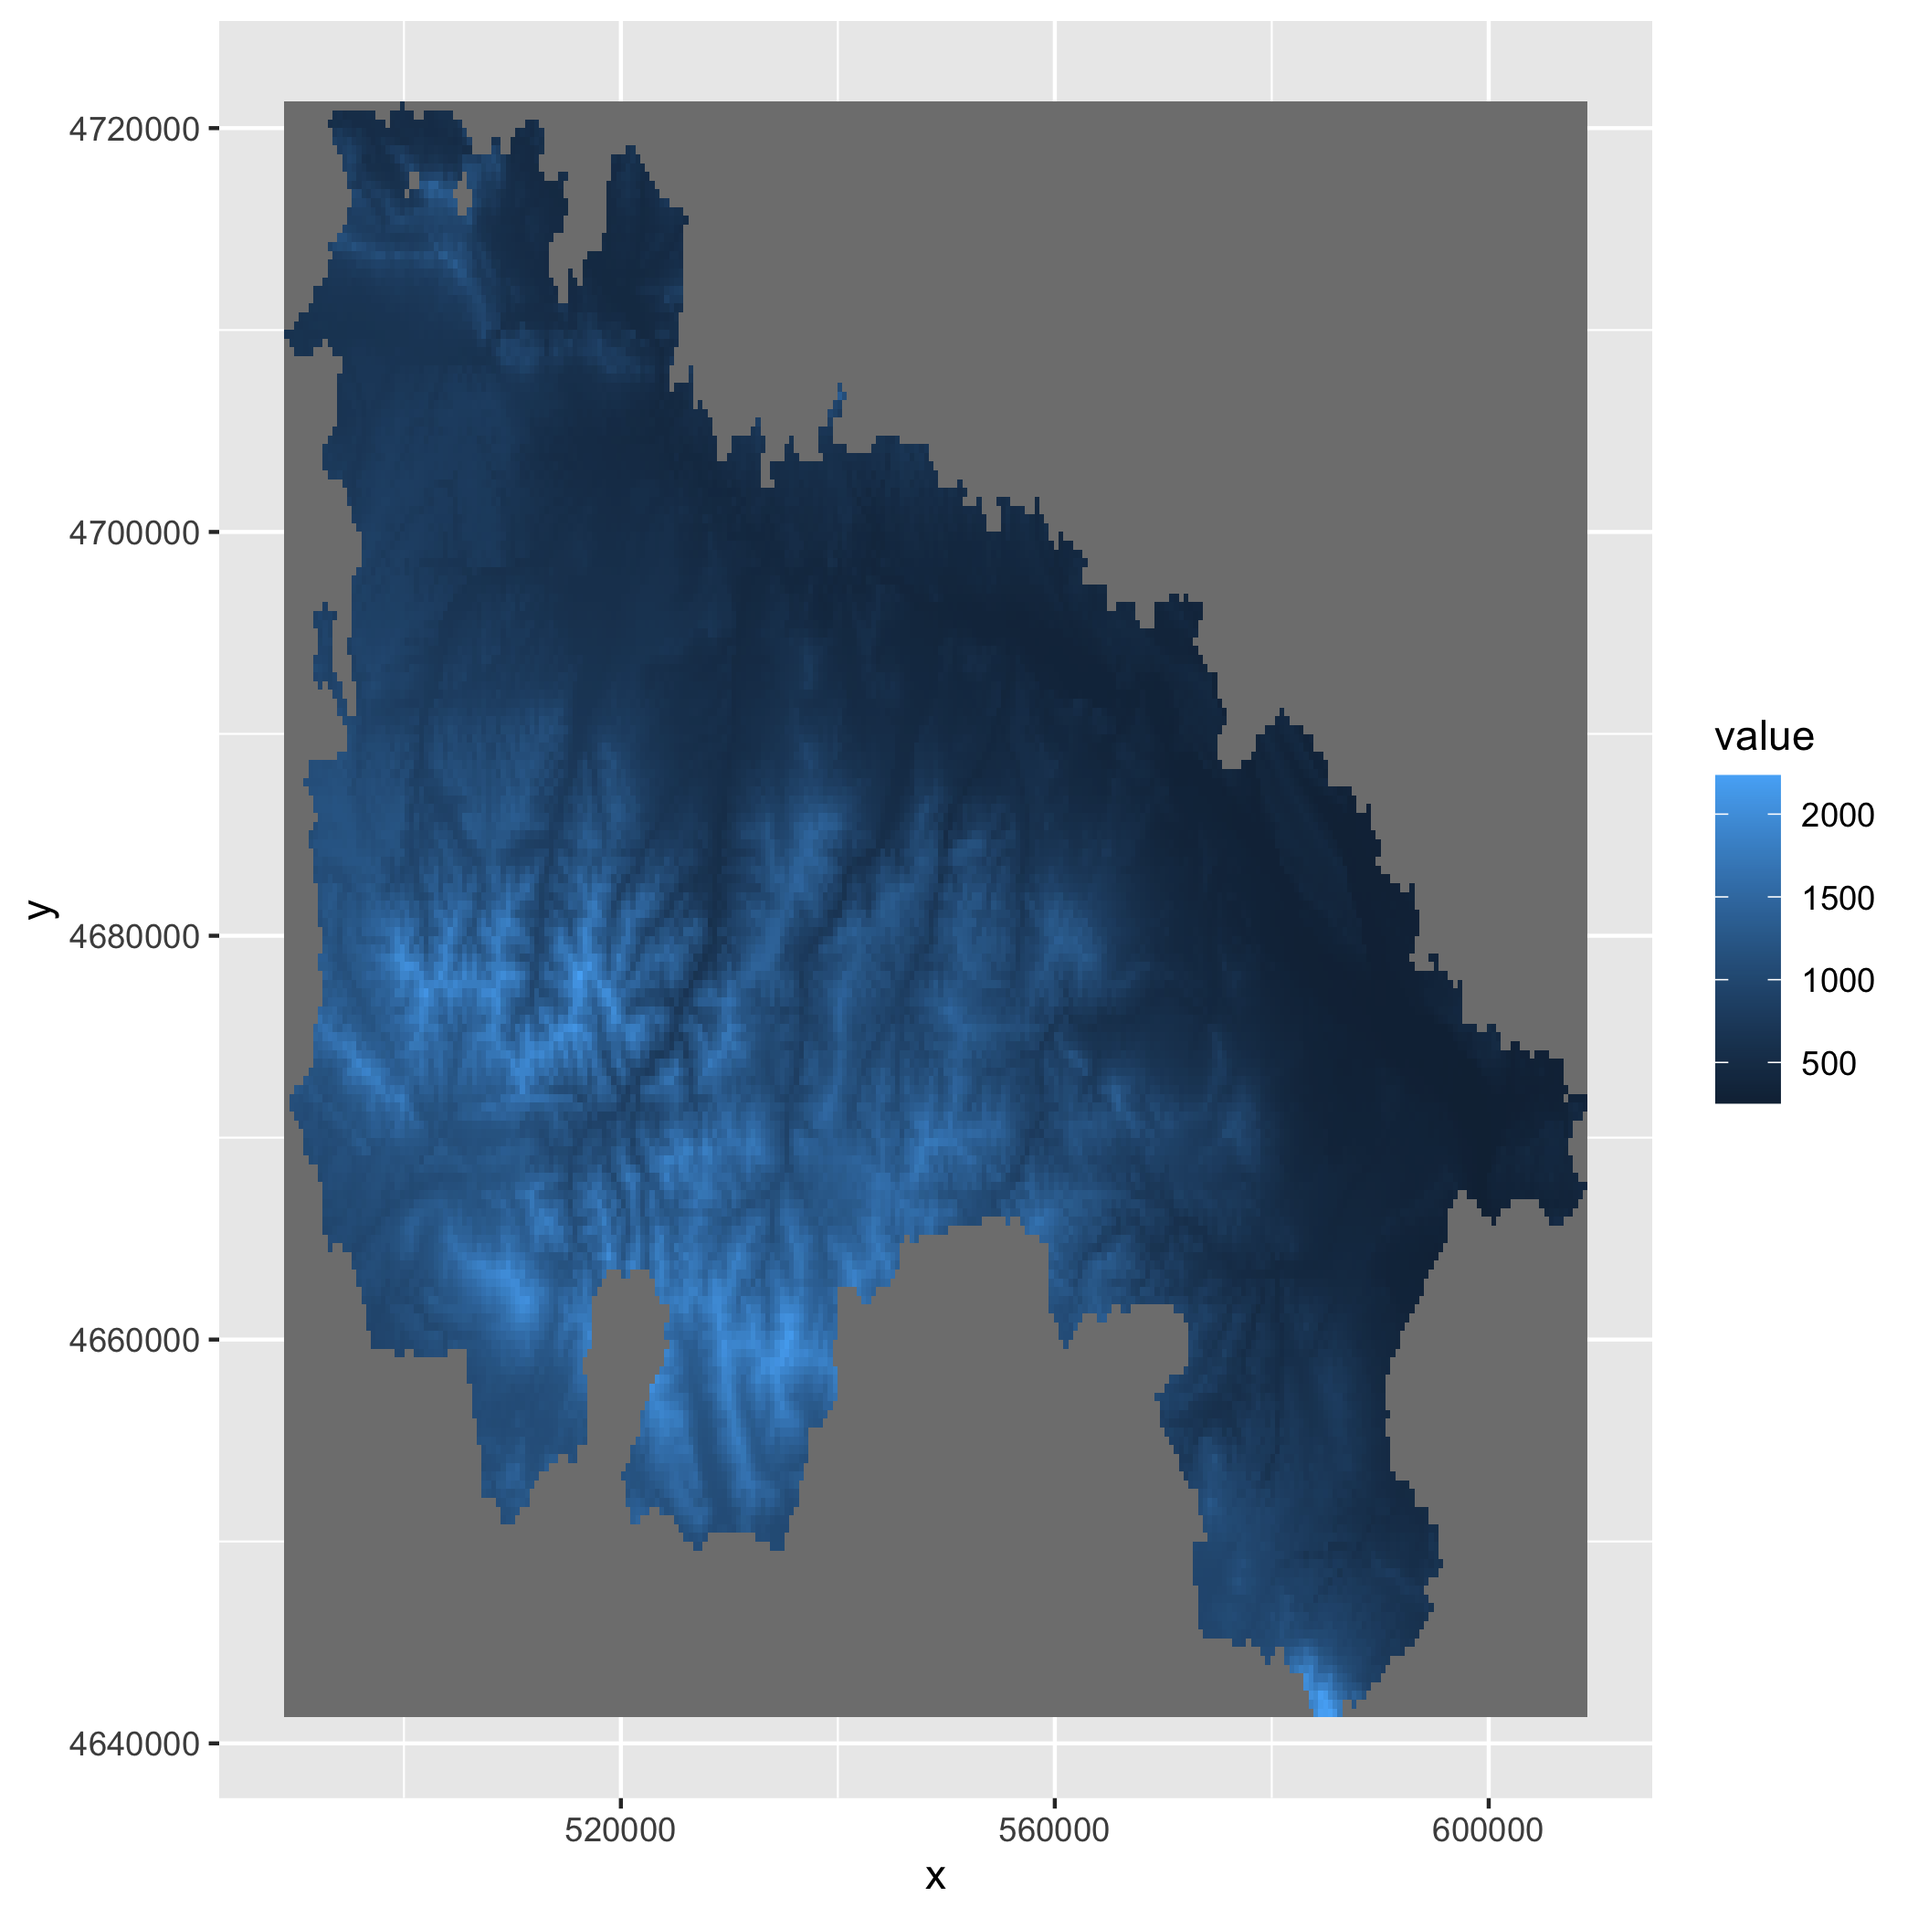
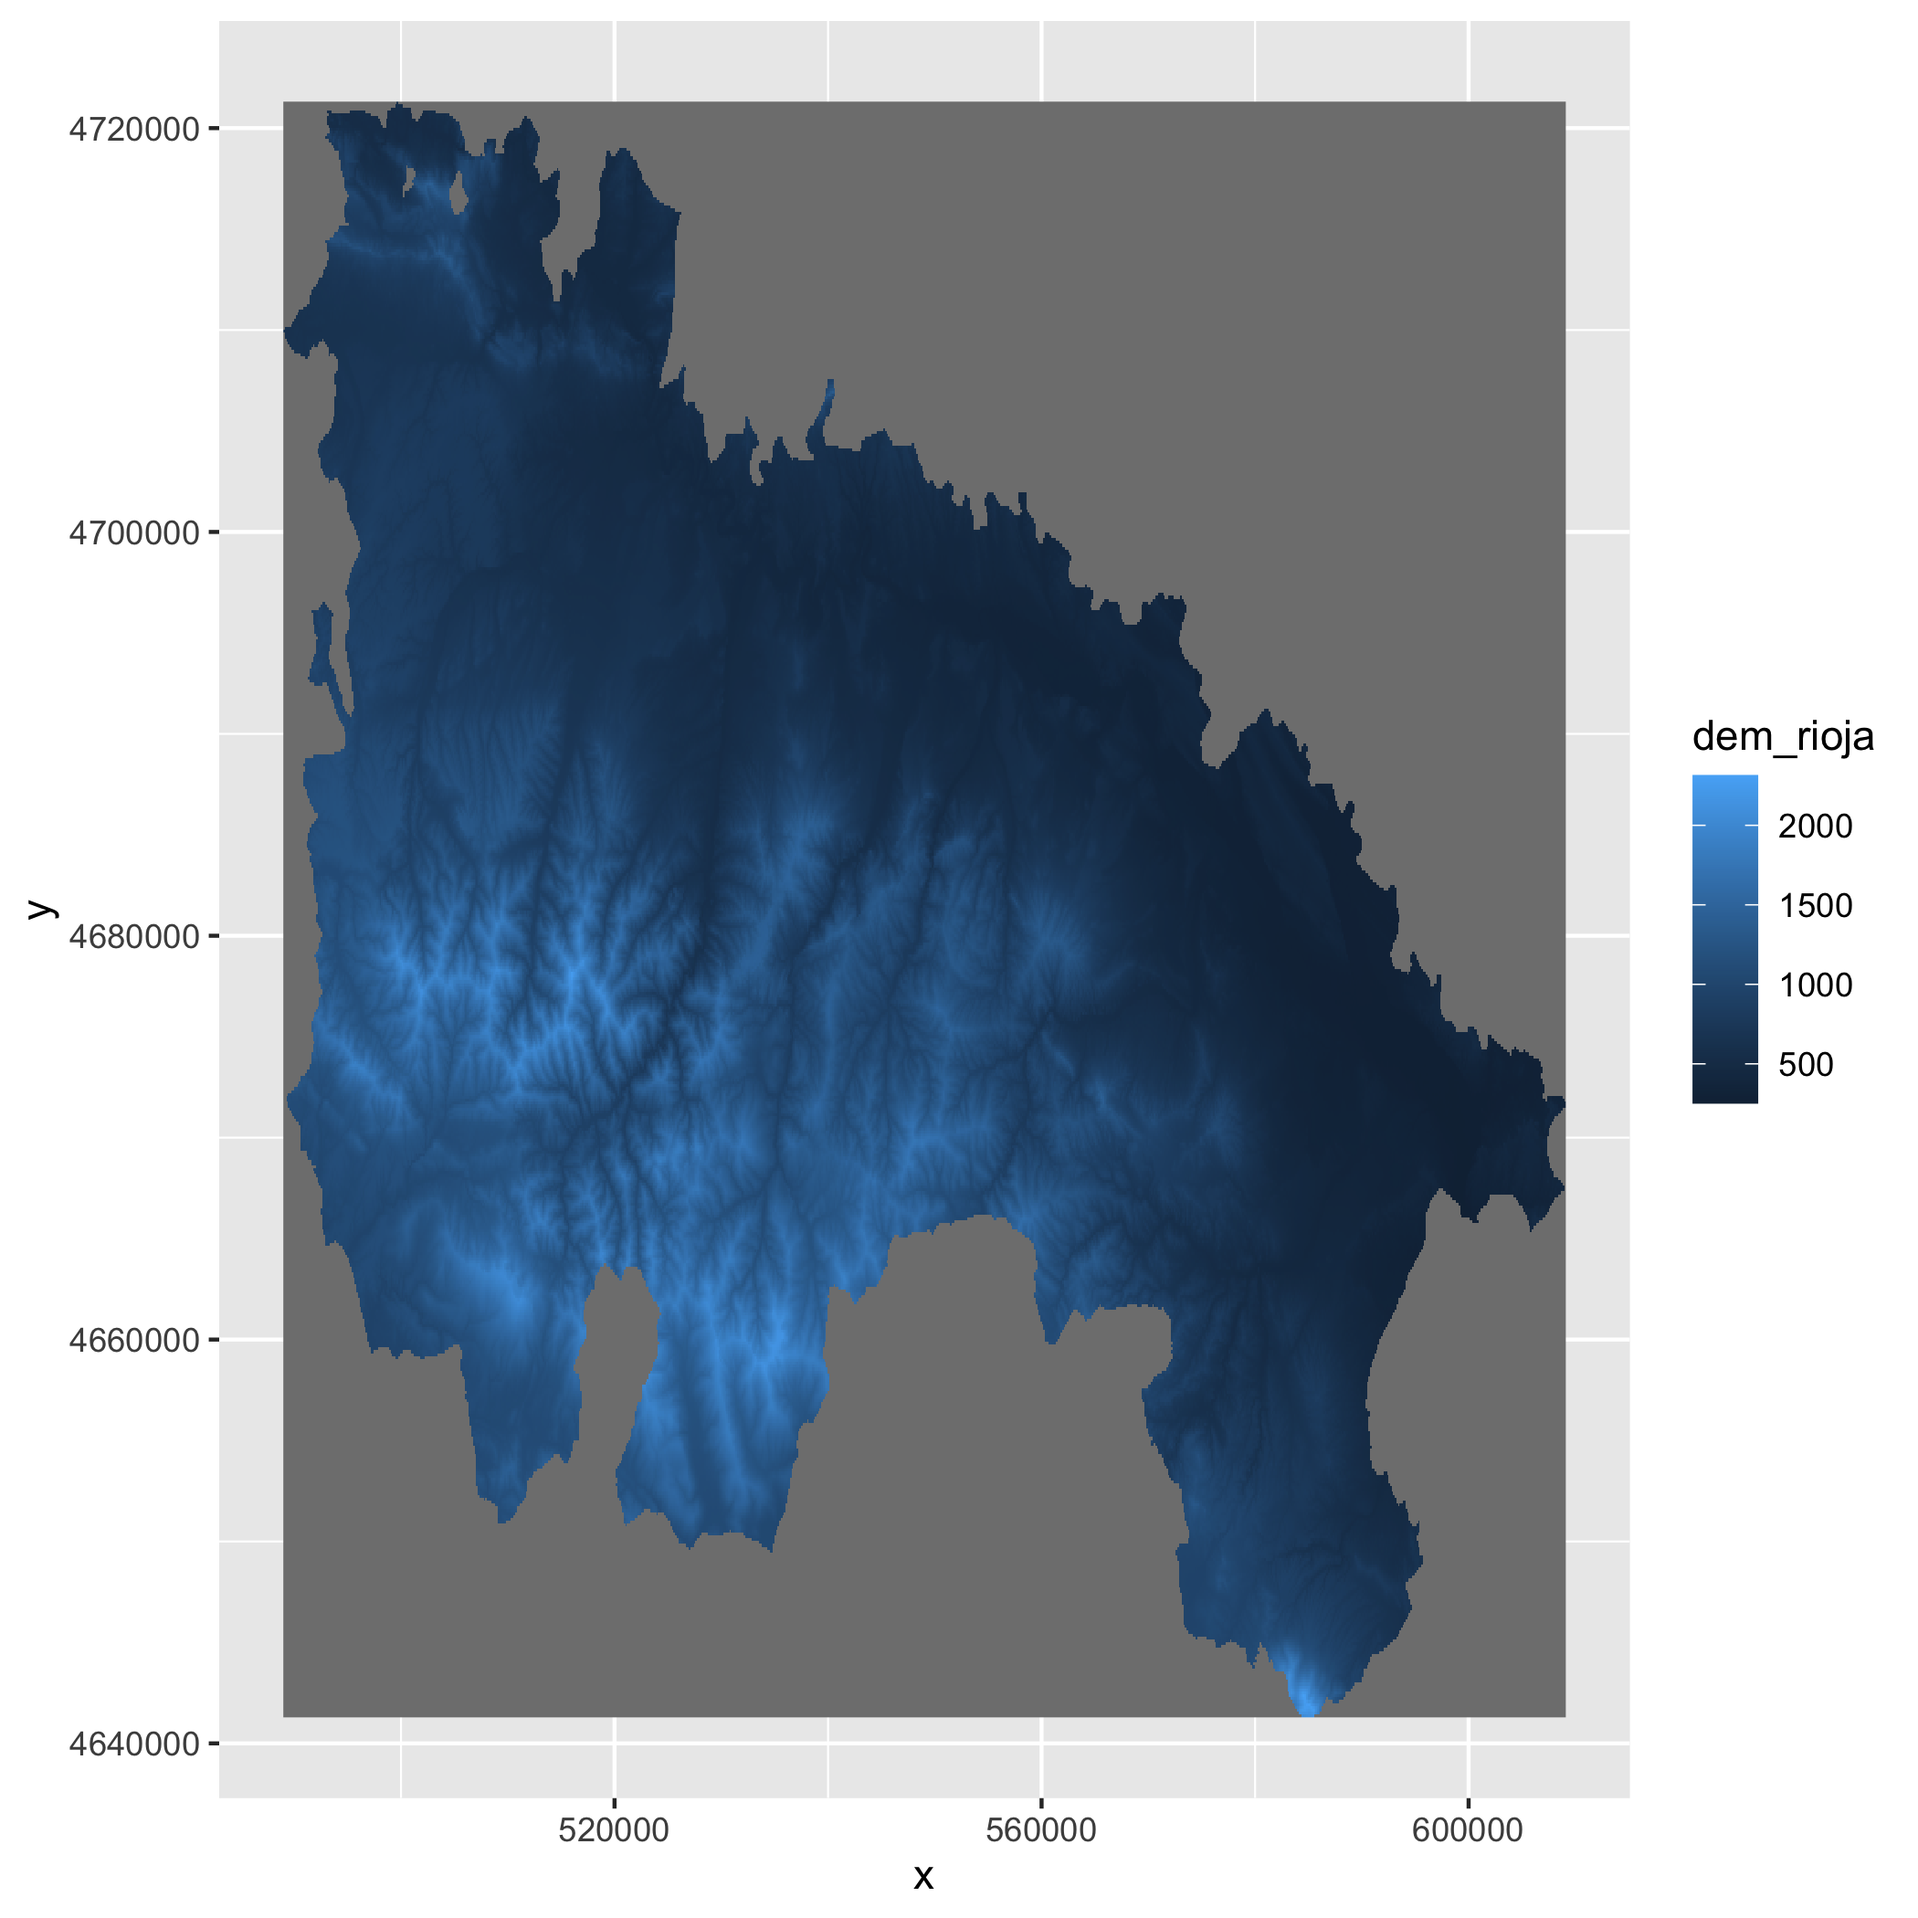
Updated slides maps

diff --git a/public/slides/lec-slides/15_spatial_data.html b/public/slides/lec-slides/15_spatial_data.html
@@ -63,8 +63,15 @@ grid %&gt;%
         geom_sf(aes(fill=log(BA)))
 ```
 
-![](15_spatial_data_files/figure-html/unnamed-chunk-3-1.png)&lt;!-- --&gt;
+---
 
+# Mapping vector data
+
+
+![](15_spatial_data_files/figure-html/unnamed-chunk-4-1.png)&lt;!-- --&gt;
+
+
+---
 # Reading raster layers
 
 The information in raster format is basically a 2-dimensional matrix, in which each of the grids or pixels is given a numerical value that represents either a category o parameter.
@@ -78,31 +85,13 @@ library(raster)
 dem &lt;- raster('data/dem_rioja.tif')
 ```
 
+---
+
 # Mapping raster layers
 
 
 ```r
 library(raster)
-```
-
-```
-## 
-## Attaching package: 'raster'
-```
-
-```
-## The following object is masked from 'package:dplyr':
-## 
-##     select
-```
-
-```
-## The following object is masked from 'package:tidyr':
-## 
-##     extract
-```
-
-```r
 dem &lt;- raster('data/dem_rioja.tif')
 
 raster::as.data.frame(dem, xy = TRUE) %&gt;%
@@ -110,38 +99,22 @@ raster::as.data.frame(dem, xy = TRUE) %&gt;%
         geom_raster(aes(x=x,y=y,fill=dem_rioja))
 ```
 
-![](15_spatial_data_files/figure-html/unnamed-chunk-5-1.png)&lt;!-- --&gt;
+---
+
+# Mapping raster layers
+
+![](15_spatial_data_files/figure-html/unnamed-chunk-7-1.png)&lt;!-- --&gt;
+
+---
 
 
 ```r
 library(rasterVis)
-```
-
-```
-## Loading required package: lattice
-```
-
-```
-## Loading required package: latticeExtra
-```
-
-```
-## 
-## Attaching package: 'latticeExtra'
-```
-
-```
-## The following object is masked from 'package:ggplot2':
-## 
-##     layer
-```
-
-```r
 gplot(dem) +
     geom_tile(aes(fill=value)) 
 ```
 
-![](15_spatial_data_files/figure-html/unnamed-chunk-6-1.png)&lt;!-- --&gt;
+---
 
 # Adding scale and norht arrows
 
@@ -157,16 +130,6 @@ gplot(dem) +
                          pad_y = unit(0.25, "in"),
                          style = north_arrow_fancy_orienteering)
 ```
-
-```
-## Using plotunit = 'm'
-```
-
-```
-## Warning in f(...): True north is not meaningful without coord_sf()
-```
-
-![](15_spatial_data_files/figure-html/unnamed-chunk-7-1.png)&lt;!-- --&gt;
     </textarea>
 <style data-target="print-only">@media screen {.remark-slide-container{display:block;}.remark-slide-scaler{box-shadow:none;}}</style>
 <script src="https://remarkjs.com/downloads/remark-latest.min.js"></script>

diff --git a/static/slides/lec-slides/15_spatial_data.html b/static/slides/lec-slides/15_spatial_data.html
@@ -63,8 +63,15 @@ grid %&gt;%
         geom_sf(aes(fill=log(BA)))
 ```
 
-![](15_spatial_data_files/figure-html/unnamed-chunk-3-1.png)&lt;!-- --&gt;
+---
 
+# Mapping vector data
+
+
+![](15_spatial_data_files/figure-html/unnamed-chunk-4-1.png)&lt;!-- --&gt;
+
+
+---
 # Reading raster layers
 
 The information in raster format is basically a 2-dimensional matrix, in which each of the grids or pixels is given a numerical value that represents either a category o parameter.
@@ -78,31 +85,13 @@ library(raster)
 dem &lt;- raster('data/dem_rioja.tif')
 ```
 
+---
+
 # Mapping raster layers
 
 
 ```r
 library(raster)
-```
-
-```
-## 
-## Attaching package: 'raster'
-```
-
-```
-## The following object is masked from 'package:dplyr':
-## 
-##     select
-```
-
-```
-## The following object is masked from 'package:tidyr':
-## 
-##     extract
-```
-
-```r
 dem &lt;- raster('data/dem_rioja.tif')
 
 raster::as.data.frame(dem, xy = TRUE) %&gt;%
@@ -110,38 +99,22 @@ raster::as.data.frame(dem, xy = TRUE) %&gt;%
         geom_raster(aes(x=x,y=y,fill=dem_rioja))
 ```
 
-![](15_spatial_data_files/figure-html/unnamed-chunk-5-1.png)&lt;!-- --&gt;
+---
+
+# Mapping raster layers
+
+![](15_spatial_data_files/figure-html/unnamed-chunk-7-1.png)&lt;!-- --&gt;
+
+---
 
 
 ```r
 library(rasterVis)
-```
-
-```
-## Loading required package: lattice
-```
-
-```
-## Loading required package: latticeExtra
-```
-
-```
-## 
-## Attaching package: 'latticeExtra'
-```
-
-```
-## The following object is masked from 'package:ggplot2':
-## 
-##     layer
-```
-
-```r
 gplot(dem) +
     geom_tile(aes(fill=value)) 
 ```
 
-![](15_spatial_data_files/figure-html/unnamed-chunk-6-1.png)&lt;!-- --&gt;
+---
 
 # Adding scale and norht arrows
 
@@ -157,16 +130,6 @@ gplot(dem) +
                          pad_y = unit(0.25, "in"),
                          style = north_arrow_fancy_orienteering)
 ```
-
-```
-## Using plotunit = 'm'
-```
-
-```
-## Warning in f(...): True north is not meaningful without coord_sf()
-```
-
-![](15_spatial_data_files/figure-html/unnamed-chunk-7-1.png)&lt;!-- --&gt;
     </textarea>
 <style data-target="print-only">@media screen {.remark-slide-container{display:block;}.remark-slide-scaler{box-shadow:none;}}</style>
 <script src="https://remarkjs.com/downloads/remark-latest.min.js"></script>

diff --git a/public/syllabus/index.html b/public/syllabus/index.html
@@ -439,7 +439,7 @@
 </tr>
 
 <tr>
-    <td align="right">Test</td>
+    <td align="right">May18</td>
     <td><b>Midterm Exam</b></td>
 
     <td align="center"><font color="f1f1f1">

diff --git a/static/syllabus/index.html b/static/syllabus/index.html
@@ -439,7 +439,7 @@
 </tr>
 
 <tr>
-    <td align="right">Test</td>
+    <td align="right">May18</td>
     <td><b>Midterm Exam</b></td>
 
     <td align="center"><font color="f1f1f1">
